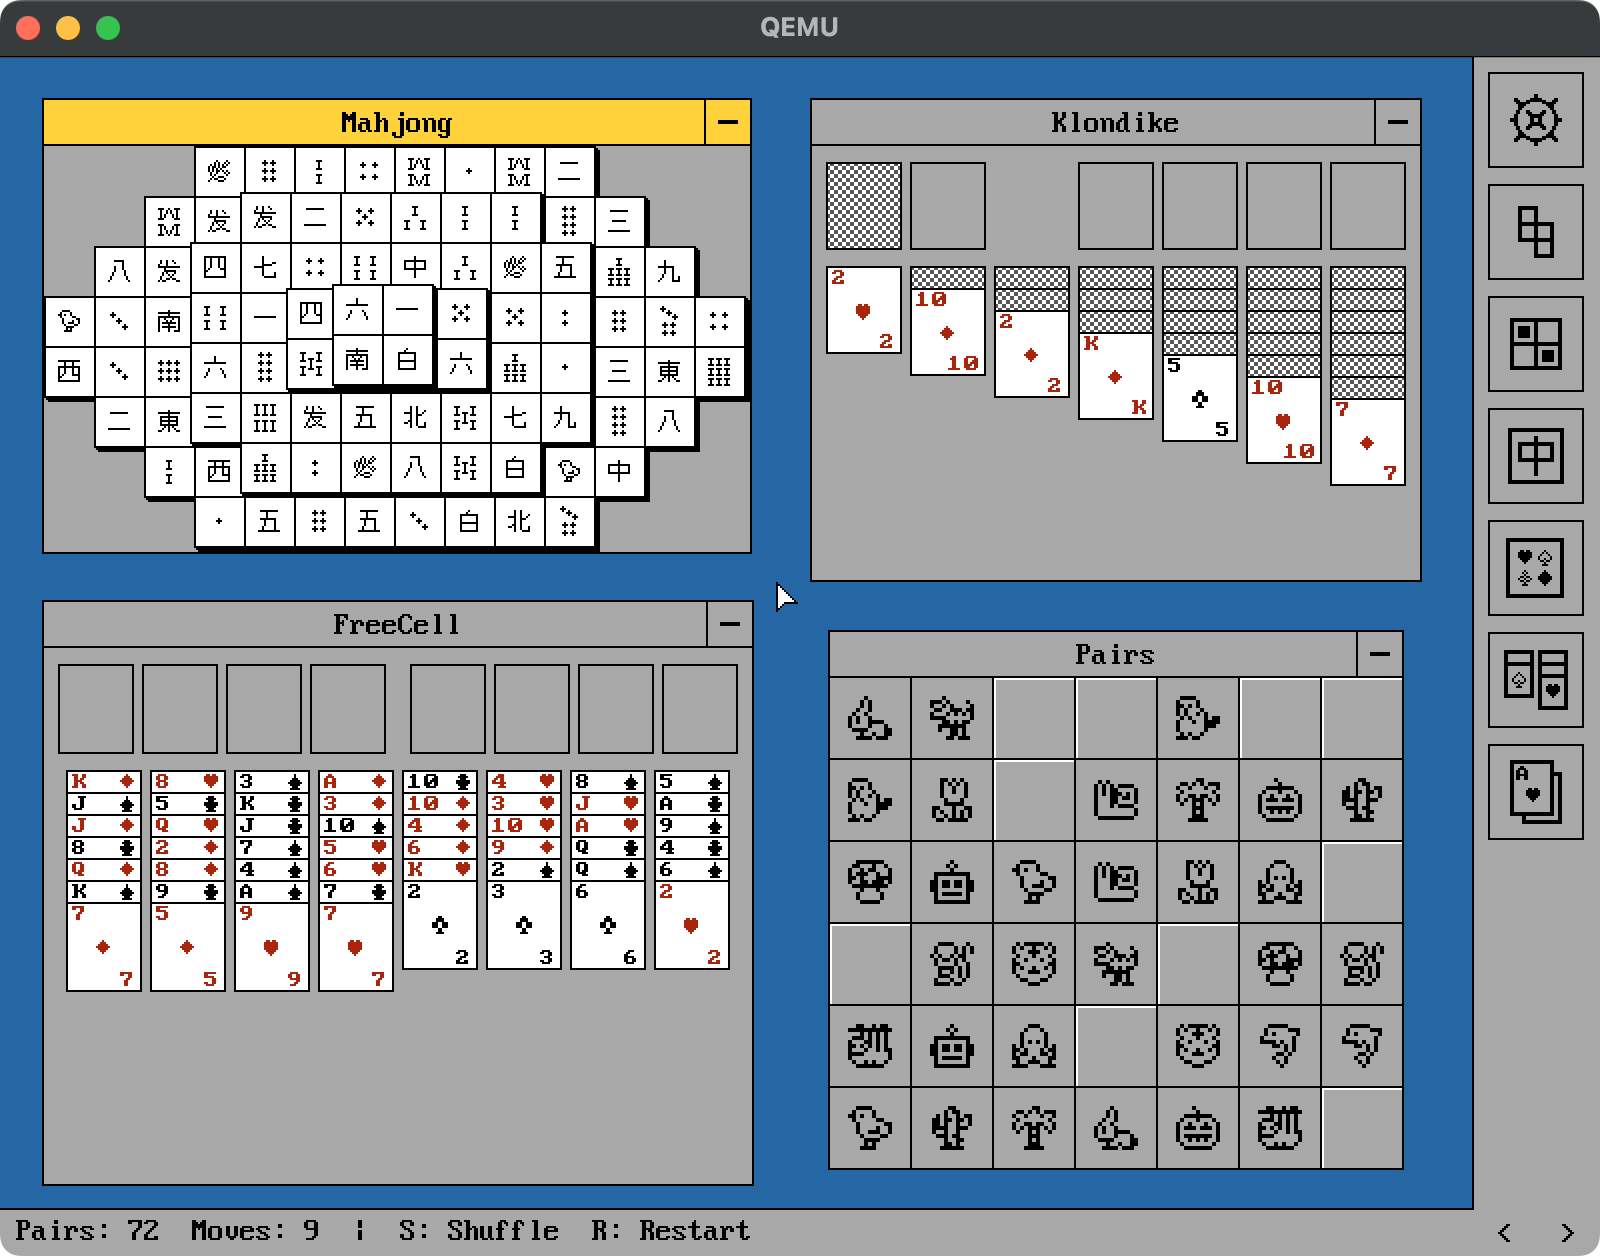
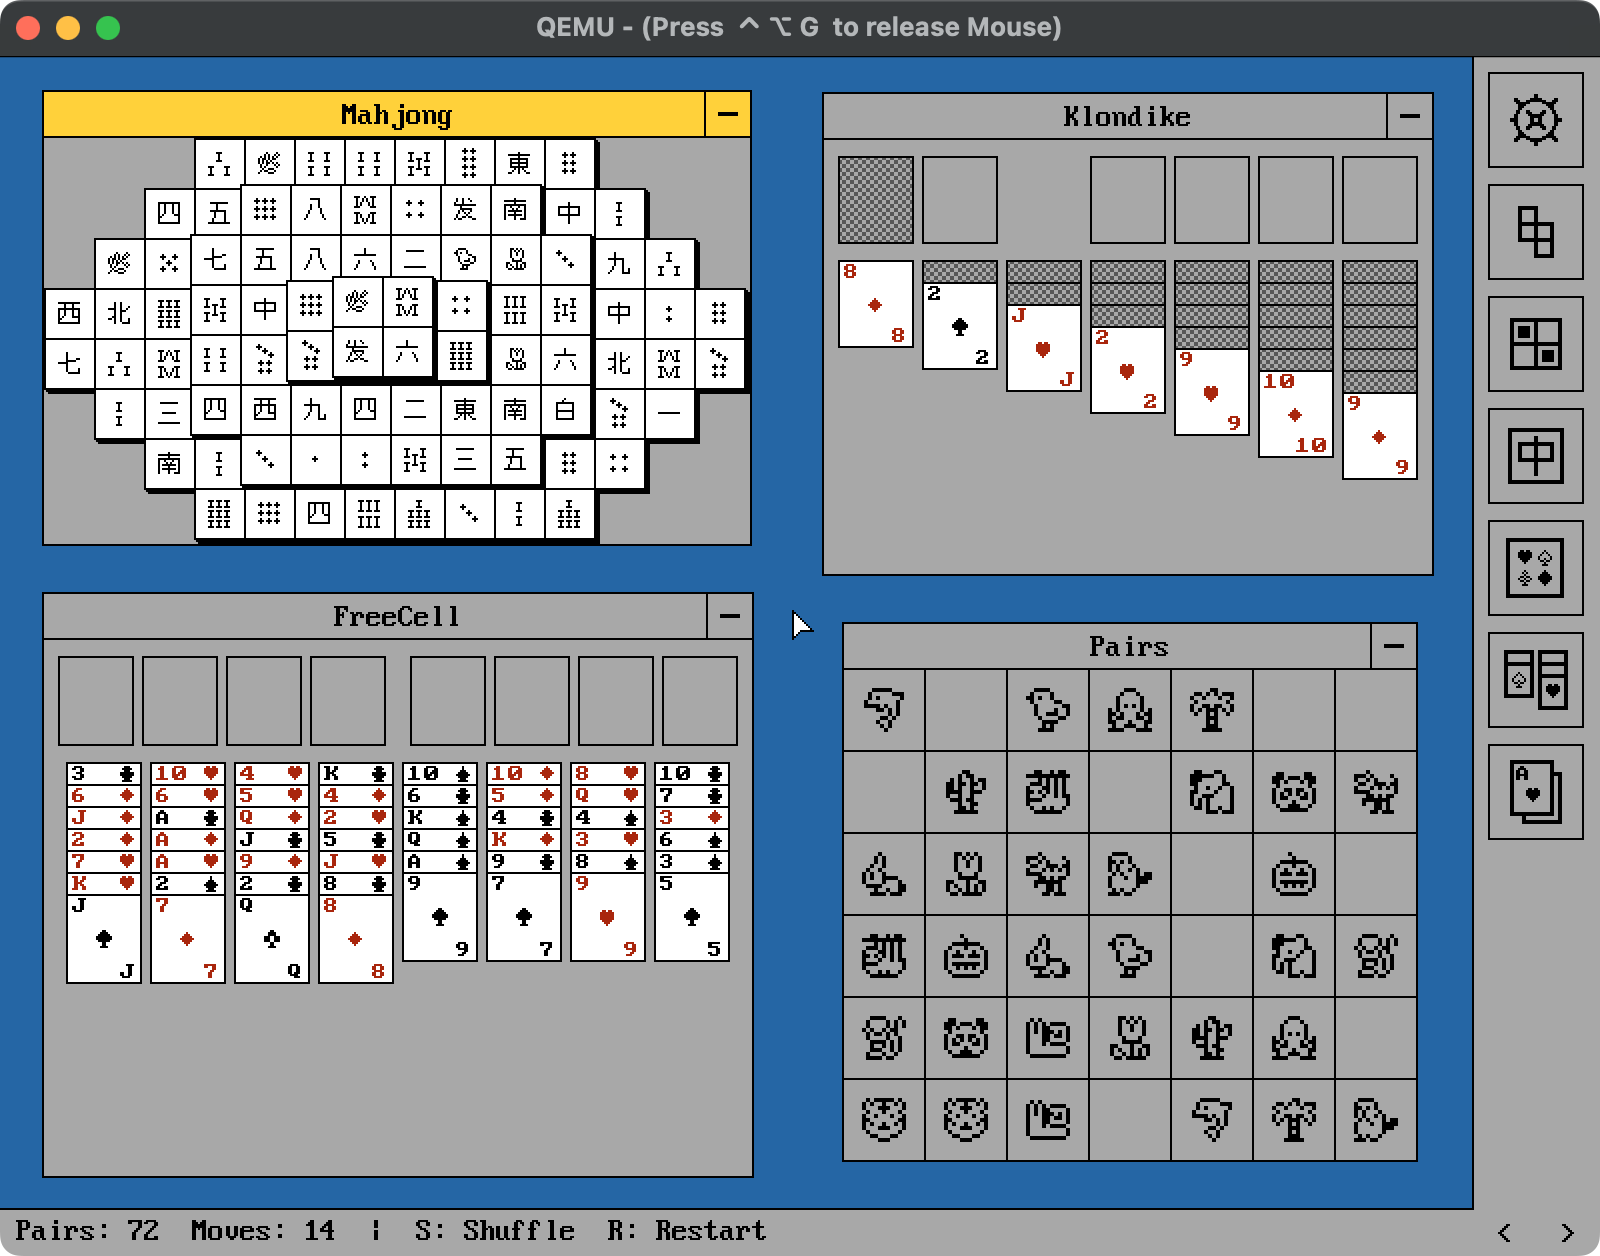
Doc: Update screenshots

diff --git a/README.md b/README.md
@@ -9,8 +9,8 @@ Its goal is to support building user-facing apps with minimal infrastructure.
 GentleOS/32 is a sibling of [GentleOS/16](https://github.com/luke8086/gentleos),
 a 16-bit OS that targets even older hardware.
 
-<img src="doc/qemu-01.png" width="320"> <img src="doc/qemu-02.png" width="320">
-<img src="doc/qemu-03.png" width="320"> <img src="doc/qemu-04.png" width="320">
+<img src="doc/qemu-01.png" width="400"> <img src="doc/qemu-02.png" width="400">
+<img src="doc/qemu-03.png" width="400"> <img src="doc/qemu-04.png" width="400">
 
 ## Building
 